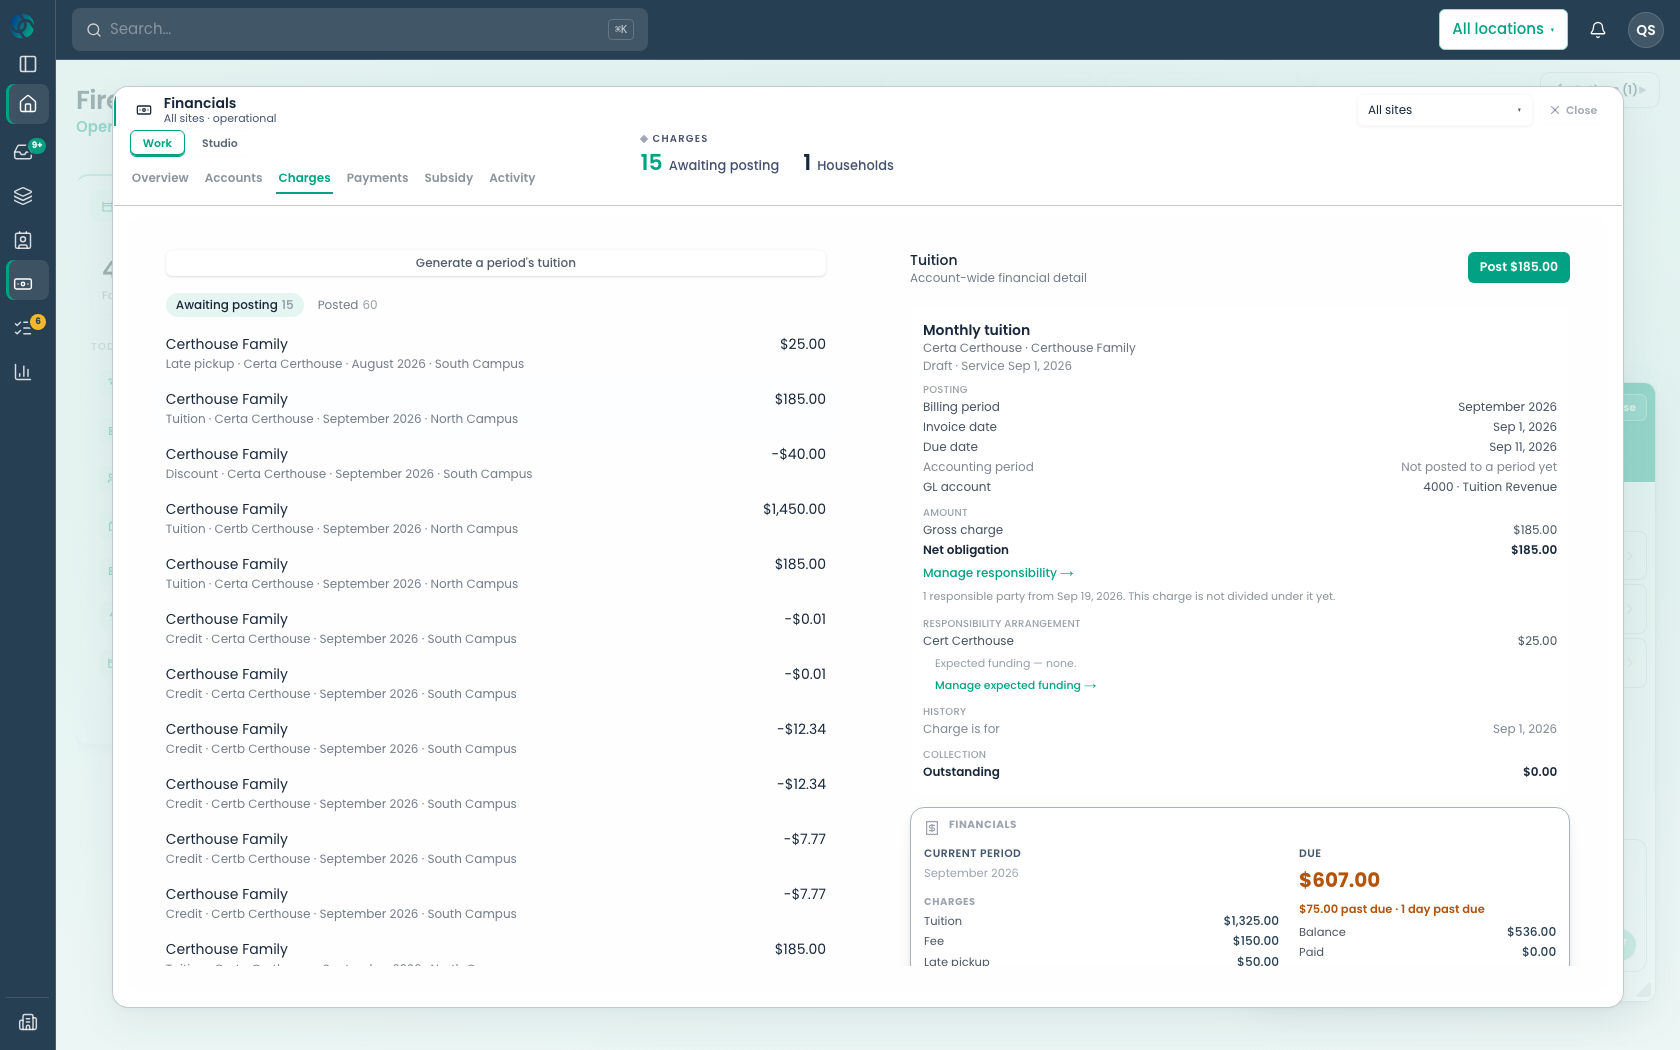
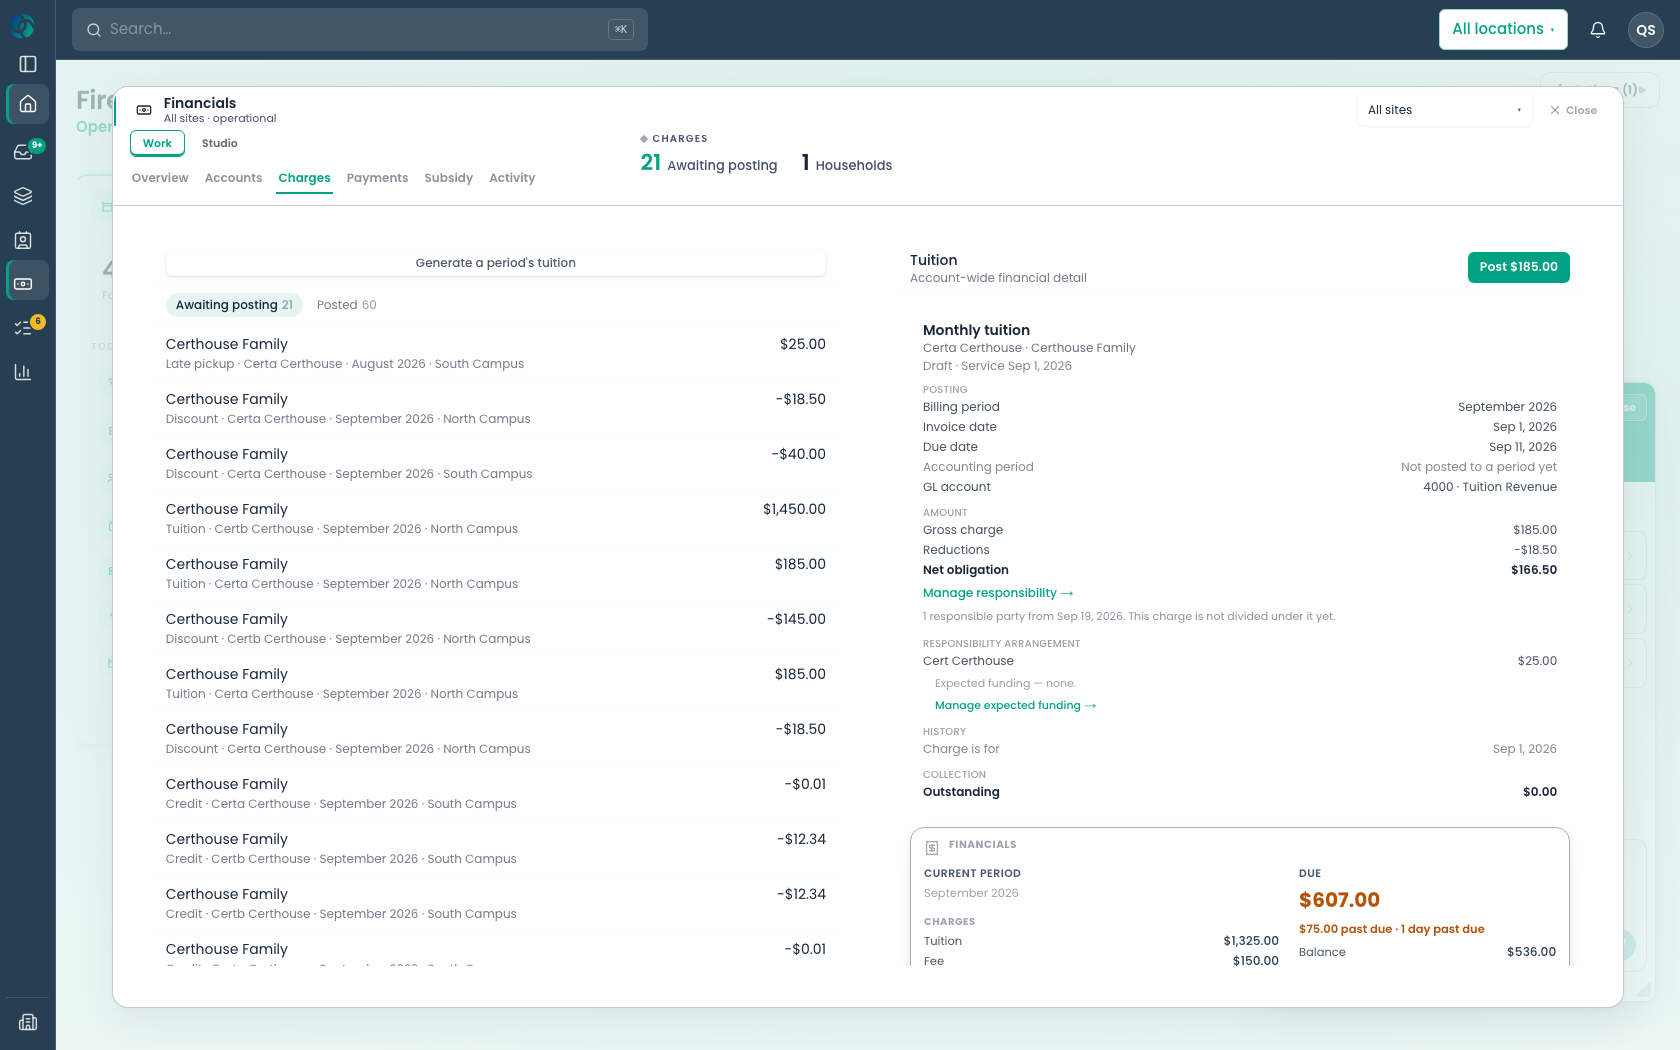
evidence(financials): the discount authority already reached the recurring gross
Claude-Session: https://claude.ai/code/session_01Pbc33MqqfH1NRnkZn5YyKk

diff --git a/web/playwright/tests/zz-11a-j21-apply.spec.ts b/web/playwright/tests/zz-11a-j21-apply.spec.ts
@@ -1,0 +1,49 @@
+/**
+ * §1 — MEASURE THE EXISTING AUTHORITY BEFORE CHANGING ANYTHING.
+ *
+ * The matrix recorded J21's cause as "materializeCurrentFinancialConsequences handles only
+ * vacation_credit", and that was the wrong layer to be looking at. A commercial discount is not a
+ * consumption consequence: `applyFinancialReductions` is Thread 10's period-level write path, it
+ * reads the gross `tuition` charges a period produced and records the reduction twice — as a
+ * `discount` charge and as a `financial_reduction_applications` row — and `billing.apply_discounts`
+ * already invokes it.
+ *
+ * So the first question is not "what should be built" but "what does the existing authority do with
+ * the recurring gross that now exists". This asks it, and writes nothing until it has.
+ */
+import { test } from "@playwright/test";
+import { writeFileSync, mkdirSync } from "node:fs";
+
+const STORAGE = "/Users/vacilando/.local/state/alloy-dev/gateway/auth/slot2/storage-state.json";
+const OUT = "../certification/financials/11a-j21";
+test.use({ storageState: STORAGE, baseURL: process.env.QA_BASE_URL || "http://127.0.0.1:3012" });
+test.setTimeout(400_000);
+const log = (s: string) => console.log(s); // eslint-disable-line no-console
+
+test("what does billing.apply_discounts do with the recurring gross", async ({ page }) => {
+    mkdirSync(OUT, { recursive: true });
+    await page.goto("/workspace", { waitUntil: "domcontentloaded" });
+    await page.waitForTimeout(5000);
+    const out = await page.evaluate(async () => {
+        const call = async (mode: string) => {
+            const r = await fetch("/api/admin/actions/execute", {
+                method: "POST", credentials: "include",
+                headers: { "content-type": "application/json" },
+                body: JSON.stringify({
+                    action_key: "billing.apply_discounts",
+                    entity_type: "opportunity_customer_member",
+                    entity_id: "",
+                    mode,
+                    confirmation: { confirmed: true },
+                    payload: { period_key: "2026-09" },
+                }),
+            });
+            return { mode, status: r.status, body: await r.json().catch(() => null) };
+        };
+        return { preview: await call("preview"), run1: await call("execute"), run2: await call("execute") };
+    });
+    writeFileSync(`${OUT}/apply.json`, JSON.stringify(out, null, 2));
+    log(`preview: ${JSON.stringify(out.preview).slice(0, 1800)}`);
+    log(`\nrun 1: ${JSON.stringify(out.run1).slice(0, 3000)}`);
+    log(`\nrun 2: ${JSON.stringify(out.run2).slice(0, 3000)}`);
+});
